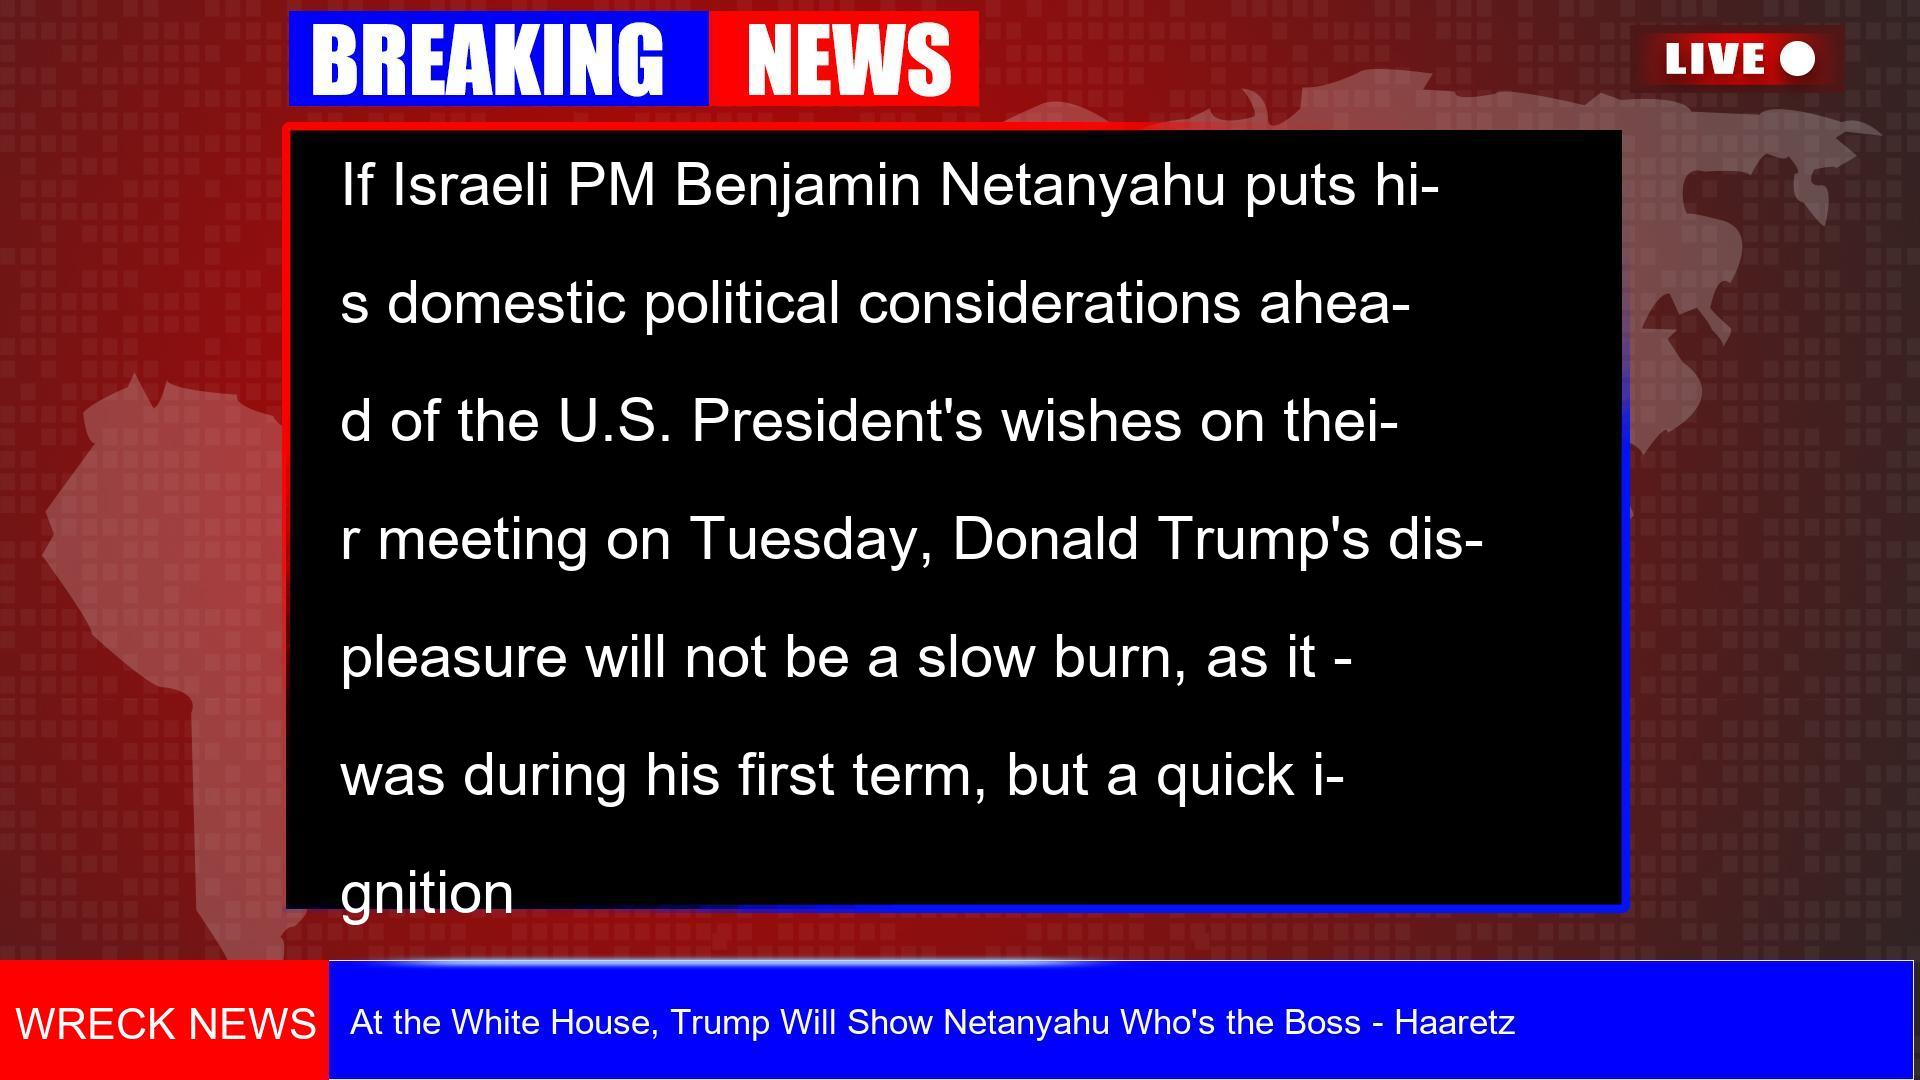
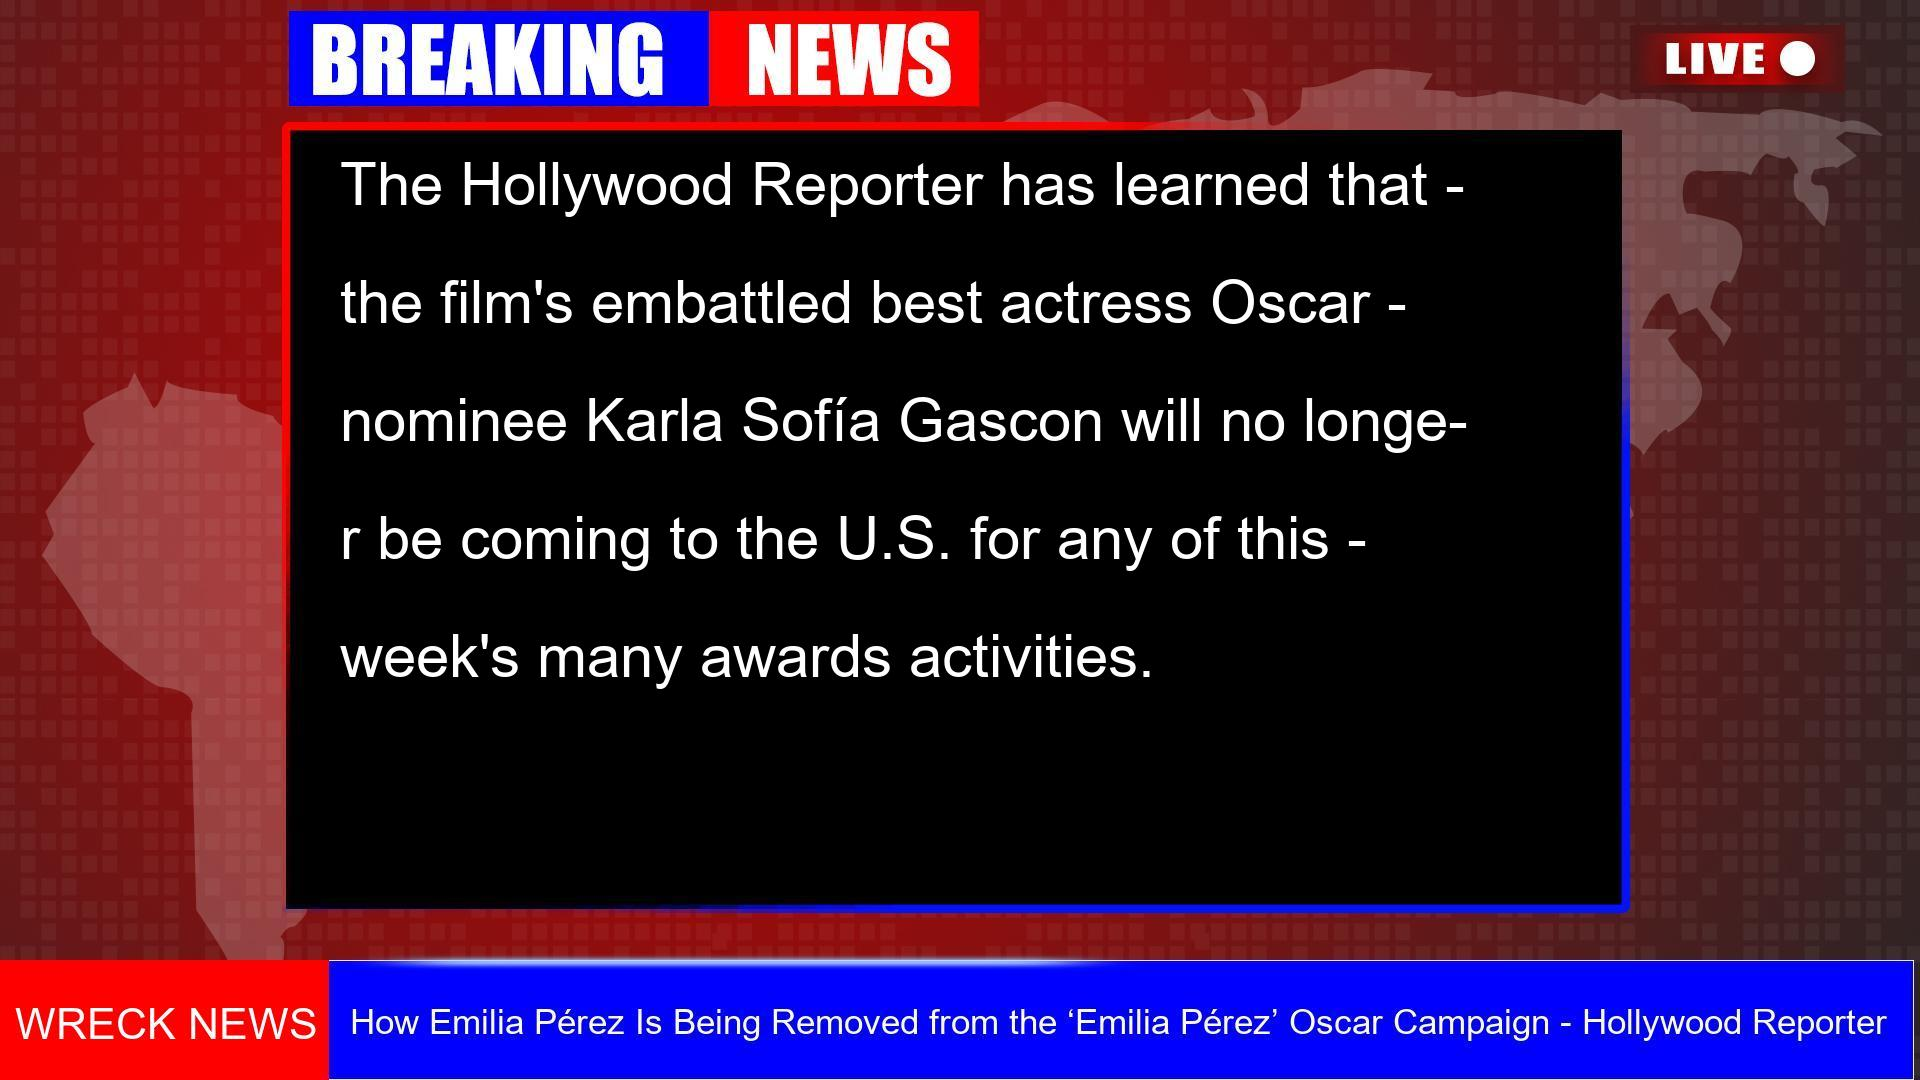
fsaukfku

diff --git a/main.py b/main.py
@@ -1,70 +1,76 @@
 from PIL import Image, ImageDraw, ImageFont 
 from newsapi import NewsApiClient
 import instagrapi
+
+# ✅ Function to format text with newlines
 def add_newlines(text, interval):
-    # Split the text into chunks of the specified interval
     chunks = [text[i:i+interval] for i in range(0, len(text), interval)]
-    # Join the chunks with '\n'
     return '-\n\n'.join(chunks)
 
+# ✅ Function to fetch news headlines
 def get_news(index): 
     newsapi = NewsApiClient(api_key='bed5ceda36b94e4d862e061e7db54301')
 
     # Fetch top headlines
     headlines = newsapi.get_top_headlines(language='en', country='us')
 
-    # Ensure the index is within bounds
+    # Ensure index is within bounds
     if index < len(headlines['articles']):
         return headlines['articles'][index]['title'], headlines['articles'][index]['description']
     else:
         return None, None
 
-def edit_image(text, size, x, y, imagepath):
-    # Load an image
-    image = Image.open(imagepath)
-
-    # Create a drawing object
-    draw = ImageDraw.Draw(image)
-
-    # Define the text and font
+# ✅ Function to edit image with text
+def edit_image(text, max_size, x, y, imagepath):
     try:
-        font = ImageFont.truetype("arial.ttf", size)
-    except IOError:
-        font = ImageFont.load_default()
+        image = Image.open(imagepath)
+        draw = ImageDraw.Draw(image)
 
-    # Define text position
-    position = (x, y)
+        # 🔹 Try loading Arial, otherwise use default font
+        font_size = max_size
+        while font_size > 20:  # Prevents going too small
+            try:
+                font = ImageFont.truetype("arial.ttf", font_size)
+                break  # If font loads successfully, exit loop
+            except IOError:
+                font_size -= 2  # Reduce font size if Arial isn't found
 
-    # Draw the text on the image
-    draw.text(position, text, fill="white", font=font)
+        draw.text((x, y), text, fill="white", font=font)
+        image.save('output_image.jpg')
 
-    # Save the image with the text
-    image.save('output_image.jpg')
+    except Exception as e:
+        print(f"Error editing image: {e}")
 
-# Read headlines from the file
+# ✅ Read headlines safely with encoding fix
+try:
+    with open("headlines.txt", 'r+', encoding="utf-8", errors="ignore") as headlines_txt:
+        existing_headlines = headlines_txt.read().splitlines()
+        ind = 0
 
-with open("headlines.txt", 'r+', encoding="utf-8", errors="ignore") as headlines_txt:
+        while True:
+            headline, description = get_news(ind)
+            if headline is None:
+                print("No more headlines available.")
+                break
+            if headline not in existing_headlines and len(headline) <= 100:
+                # 🖼 Apply text to image with increased font size
+                edit_image(headline, 55, 350, 950, "your_image.jpg")  # Headline
+                edit_image("WRECK NEWS", 65, 15, 980, "output_image.jpg")  # Logo
+                edit_image(add_newlines(description or "No description available.", 40), 70, 340, 120, "output_image.jpg")  # Description
 
-    existing_headlines = headlines_txt.read().splitlines()
-    ind = 0
+                headlines_txt.write(f"{headline}\n")
+                break
+            ind += 1
 
-    # Fetch news and check if it's already in the file
-    while True:
-        headline, description = get_news(ind)
-        if headline is None:
-            print("No more headlines available.")
-            break
-        if headline not in existing_headlines and len(headline) <= 100:
-            # Process and save the headline
-            edit_image(headline, 35, 350, 1002, "your_image.jpg")  # Headline editor
-            edit_image("WRECK NEWS", 43, 15, 1000, "output_image.jpg")
-            edit_image(add_newlines(description or "No description available.", 40), 60, 340, 150, "output_image.jpg")
-            headlines_txt.write(f"{headline}\n")
-            break
-        ind += 1
+except Exception as e:
+    print(f"Error reading headlines.txt: {e}")
 
-bot = instagrapi.Client()
+# ✅ Instagram Bot Setup
+try:
+    bot = instagrapi.Client()
+    login = bot.login("wreck._.it._.ralph", "haiderchangedit@1")
+    post = bot.photo_upload("output_image.jpg", f"{headline}")
+    bot.logout()
 
-login = bot.login("wreck._.it._.ralph", "haiderchangedit@1")
-post = bot.photo_upload("output_image.jpg", f"{headline}")
-bot.logout
+except Exception as e:
+    print(f"Instagram bot error: {e}")
